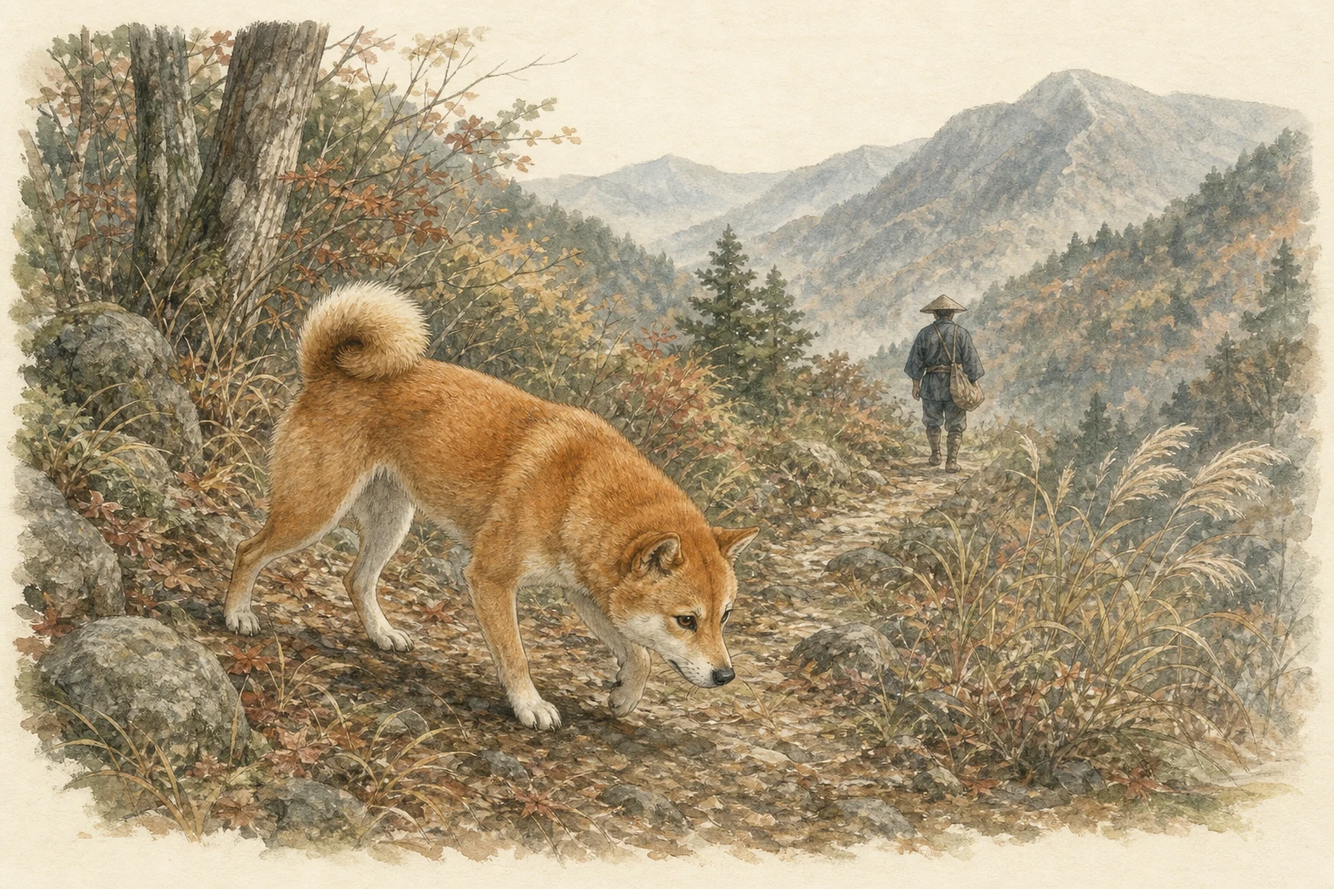
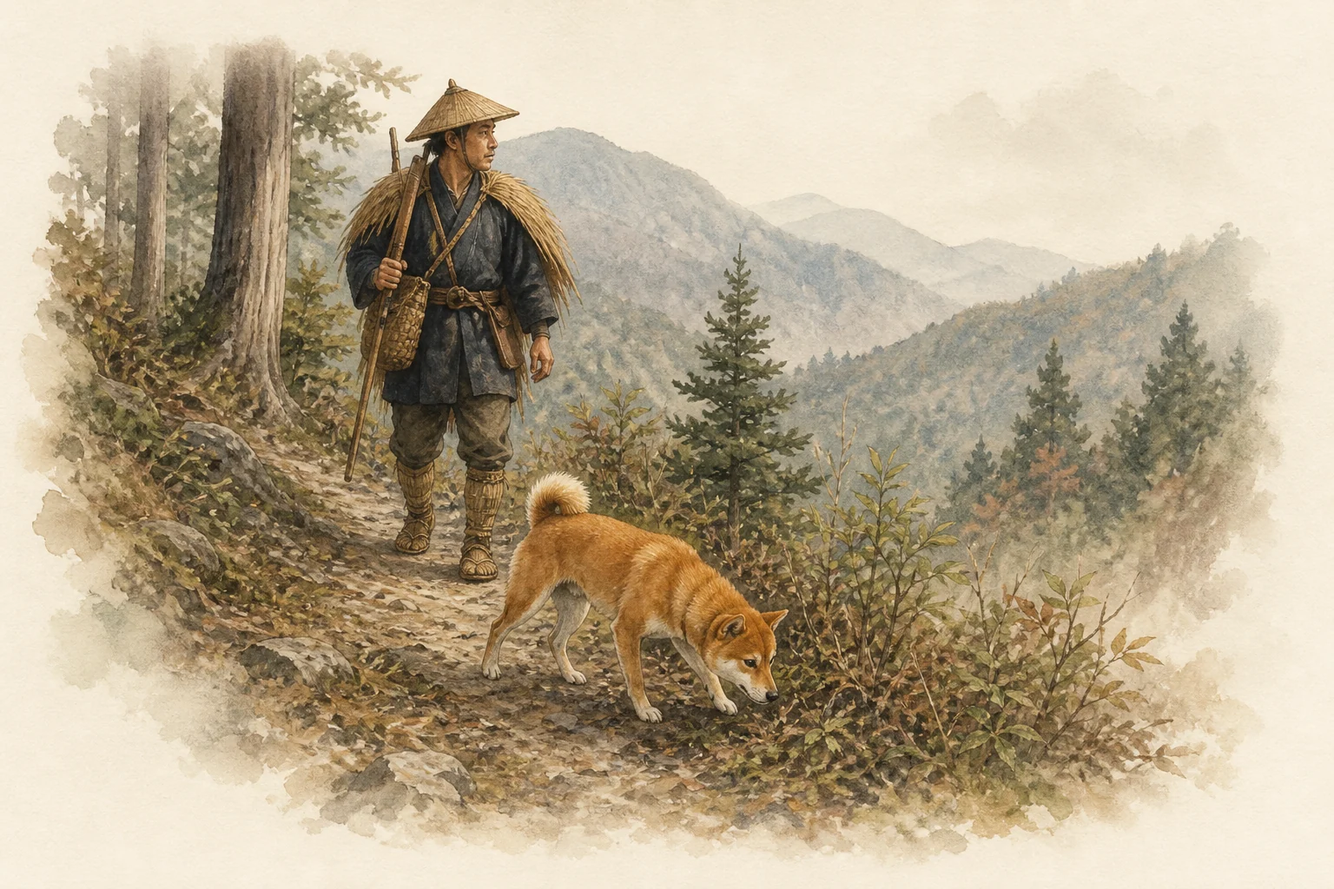
Refine Shiba visuals and recent breed details

diff --git a/src/content/breeds/detail-batch-c.ts b/src/content/breeds/detail-batch-c.ts
@@ -46,22 +46,22 @@ export const detailBatchC = [
     sources: [{ title: "FCI Standard No. 86: Yorkshire Terrier", organization: "Fédération Cynologique Internationale", url: "https://www.fci.be/Nomenclature/Standards/086g03-en.pdf", checkedAt: completedAt }, { title: "Yorkshire Terrier", organization: "The Royal Kennel Club", url: "https://www.royalkennelclub.com/search/breeds-a-to-z/breeds/toy/yorkshire-terrier/", checkedAt: completedAt }],
   },
   {
-    slug: "shiba", contentStatus: "mvp-editorial-draft", nameKo: "시바견", nameEn: "Shiba", tagline: "작은 스피츠 외모 너머에는 산지에서 냄새와 움직임을 스스로 판단하던 사냥견의 배경이 있어요.",
+    slug: "shiba", contentStatus: "mvp-editorial-draft", nameKo: "시바견", nameEn: "Shiba", tagline: "날렵한 스피츠 외모 너머에는 산지에서 냄새와 움직임을 스스로 판단하던 사냥견의 배경이 있어요.",
     palette: { primary: "#d79b67", secondary: "#dbe1c9", ink: "#4a3428" }, illustration: "/illustrations/v2/shiba-card-front.webp", catalog: { group: "spitz-primitive", discoveryTags: ["일본 산지 사냥견", "독립적 탐색", "이중모"] }, historyVisual: { src: "/illustrations/v3/shiba-history.webp", alt: "일본 산지에서 사냥 동반자로 움직이는 시바를 그린 편집 수채화" },
-    identity: { origin: "일본", lineage: "일본 토착 소형견 계통", originalRole: "사냥견", size: "소형 · 약 35~41cm, 7~11kg", lifespan: "10년 이상(RKC 참고, 개체별 차이 있음)" },
+    identity: { origin: "일본", lineage: "일본 토착 스피츠 계통", originalRole: "사냥견", size: "소형·중형 경계 · 약 35~41cm, 7~11kg", lifespan: "10년 이상(RKC 참고, 개체별 차이 있음)" },
     behaviorClues: { originalRole: "험한 산지에서 냄새와 움직임을 읽고 스스로 판단하며 사냥에 협력했습니다.", today: "낯선 접촉을 신중히 선택하거나 움직이는 대상을 좇을 수 있지만 사회화와 개체 경험에 따라 크게 달라요.", guardianContext: "강제로 만지기보다 선택권을 주고, 긴 줄과 안전한 울타리 안에서 탐색 욕구를 충족해 주세요." },
-    story: { opening: "시바는 일본 산지에서 작은 동물과 새를 사냥하는 데 쓰인 토착 소형견입니다.", roleToHome: "가정에서도 환경을 세밀하게 관찰하고 자기 거리를 지키려는 모습이 나타날 수 있어요.", reality: "깔끔하고 조용하다는 이미지가 쉬운 양육을 보장하지 않습니다. 탈출 관리와 동의 기반 핸들링이 중요해요." },
+    story: { opening: "시바는 일본의 산지에서 작은 동물과 새를 사냥하던 토착견으로, 지역에 따라 미노·산인·신슈 등 서로 조금 다른 유형이 있었습니다. 서양 견종과의 교배가 늘며 고유한 유형이 크게 줄자 20세기 초 보존 활동이 시작됐고, 여러 지역의 개들을 바탕으로 오늘날의 모습이 정리됐습니다.", roleToHome: "작고 균형 잡힌 몸과 가볍고 빠른 움직임, 뾰족한 귀와 말린 꼬리는 시바를 알아보는 대표적인 특징입니다. 지금은 여러 지역에서 반려견으로 지내며, 주변을 세밀하게 살피거나 자기 거리를 선택하는 모습은 개체와 경험에 따라 다르게 나타날 수 있어요.", reality: "깔끔하고 조용하다는 이미지가 쉬운 양육을 보장하지 않습니다. 탈출 관리와 동의 기반 핸들링이 중요해요." },
     tendencies: { activity: { label: "중간", note: "규칙적인 산책과 자유로운 냄새 탐색이 필요해요." }, mentalStimulation: { label: "중간", note: "선택하며 해결하는 탐색 과제를 제공할 수 있어요." }, independence: { label: "높은 편", note: "자기 판단과 거리 조절을 선호할 수 있어요." }, socialConnection: { label: "중간", note: "가족과 유대하더라도 접촉 방식은 선택적일 수 있어요." }, alerting: { label: "중간", note: "낯선 변화에 빠르게 주의를 기울일 수 있어요." }, grooming: { label: "중간", note: "이중모의 계절성 털갈이 관리가 필요해요." } },
     careNotes: ["문과 현관, 울타리의 탈출 가능성을 반복 확인하세요.", "발·귀·몸을 만지는 연습은 짧게 하고 거부 신호를 존중하세요.", "야생동물과 작은 동물을 향한 추적은 긴 줄과 거리 관리로 예방하세요."], healthEditorialNote: healthDraft,
     daySnapshot: [{ time: "아침", title: "조용한 탐색", description: "냄새를 선택해 맡을 시간을 줘요." }, { time: "낮", title: "혼자 쉬기", description: "방해받지 않는 자리를 보장해요." }, { time: "저녁", title: "핸들링 연습", description: "짧게 만지고 보상한 뒤 끝내요." }], related: [{ slug: "korea-jindo-dog", reason: "동아시아 사냥견 배경과 독립적 거리 조절을 비교해 보세요." }, { slug: "akita", reason: "일본 스피츠 계열 안에서 체격과 생활 부담의 차이가 커요." }],
-    sources: [{ title: "FCI Standard No. 257: Shiba", organization: "Fédération Cynologique Internationale", url: "https://www.fci.be/Nomenclature/Standards/257g05-en.pdf", checkedAt: revisedAt }, { title: "Japanese Shiba Inu", organization: "The Royal Kennel Club", url: "https://www.royalkennelclub.com/search/breeds-a-to-z/breeds/utility/japanese-shiba-inu/", checkedAt: revisedAt }],
+    sources: [{ title: "FCI Standard No. 257: Shiba", organization: "Fédération Cynologique Internationale", url: "https://www.fci.be/Nomenclature/Standards/257g05-en.pdf", checkedAt: revisedAt }, { title: "Japanese Shiba Inu", organization: "The Royal Kennel Club", url: "https://www.royalkennelclub.com/search/breeds-a-to-z/breeds/utility/japanese-shiba-inu/", checkedAt: revisedAt }, { title: "Shiba Inu", organization: "American Kennel Club", url: "https://www.akc.org/dog-breeds/shiba-inu/", checkedAt: revisedAt }],
   },
   {
     slug: "akita", contentStatus: "mvp-editorial-draft", nameKo: "아키타", nameEn: "Akita", tagline: "위엄 있는 외모보다 먼저, 큰 체격으로 판단하고 움직이는 일본 산지견의 거리감과 책임을 봐야 해요.",
     palette: { primary: "#c99568", secondary: "#d8dfce", ink: "#44362d" }, illustration: "/illustrations/v2/akita-card-front.webp", catalog: { group: "spitz-primitive", discoveryTags: ["일본 대형 스피츠", "신중한 관계", "큰 체격"] }, historyVisual: { src: "/illustrations/v3/akita-history.webp", alt: "일본 북부 산지의 사냥·경비 동반자 아키타를 그린 편집 수채화" },
     identity: { origin: "일본·아키타", lineage: "아키타 마타기견 계통", originalRole: "사냥견·경비견", size: "대형 · 약 58~70cm, 체중은 성별·체형별 차이 큼", lifespan: "10년 이상(RKC 참고, 개체별 차이 있음)" },
     behaviorClues: { originalRole: "큰 동물을 상대하는 산지 사냥과 경비에서 침착한 판단, 힘과 지속성이 요구됐습니다.", today: "낯선 개나 사람에게 신중하고 자기 공간을 지키려 할 수 있지만 개체의 사회화 경험이 반응을 크게 좌우합니다.", guardianContext: "어릴 때부터 충분한 거리에서 차분히 관찰하게 하고, 힘으로 제압하기보다 예측 가능한 규칙과 보상으로 협력하세요." },
-    story: { opening: "아키타는 일본 아키타 지역의 산지견을 바탕으로 형성된 대형 스피츠형 견종입니다.", roleToHome: "가정에서는 조용해 보여도 주변을 판단하고 관계를 선택하는 시간이 필요할 수 있어요.", reality: "대형 체격과 개체 간 관계 관리는 큰 생활 부담이 될 수 있어 생활 동선과 교육 지원을 먼저 준비해야 합니다." },
+    story: { opening: "아키타는 일본 아키타 지역에서 곰 사냥에 쓰이던 중형 마타기견을 바탕으로 발전했습니다. 17세기 이후 투견으로도 활용되고 다른 대형견 계통과 교배되면서 체격이 커졌으며, 20세기에는 일본 고유의 대형견 모습을 되찾고 보존하려는 노력이 이어졌습니다.", roleToHome: "전쟁을 거치며 개체 수가 크게 줄고 여러 유형이 섞였지만, 남아 있던 마타기형 개들을 중심으로 지금의 대형 스피츠형 모습이 정리됐습니다. 오늘날에는 반려견으로 지내며, 큰 체격과 신중한 관계 선택을 고려한 생활 동선과 사회화가 필요할 수 있어요.", reality: "대형 체격과 개체 간 관계 관리는 큰 생활 부담이 될 수 있어 생활 동선과 교육 지원을 먼저 준비해야 합니다." },
     tendencies: { activity: { label: "중간", note: "무리한 고강도보다 꾸준한 산책과 탐색이 필요해요." }, mentalStimulation: { label: "중간", note: "강요보다 선택 가능한 과제를 제공할 수 있어요." }, independence: { label: "높은 편", note: "자기 판단과 개인 공간을 중시할 수 있어요." }, socialConnection: { label: "중간", note: "가족과 깊게 유대해도 표현은 절제될 수 있어요." }, alerting: { label: "중간", note: "조용히 관찰하다 필요할 때 반응할 수 있어요." }, grooming: { label: "중간", note: "두꺼운 이중모와 큰 체격만큼 털갈이 부담이 커요." } },
     careNotes: ["낯선 개와의 인사는 의무가 아니며 충분한 거리와 퇴로를 확보하세요.", "성장기에는 미끄러운 바닥과 무리한 반복 운동을 줄이세요.", "여름에는 기온과 습도를 확인하고 가장 더운 시간의 활동을 피하세요."], healthEditorialNote: healthDraft,
     daySnapshot: [{ time: "아침", title: "긴 호흡의 산책", description: "서두르지 않고 주변을 관찰해요." }, { time: "낮", title: "독립 휴식", description: "방해받지 않는 넓은 자리를 줘요." }, { time: "저녁", title: "차분한 협력", description: "기다리기와 자리 이동을 연습해요." }], related: [{ slug: "shiba", reason: "일본 토착 스피츠 안에서 체격과 관계 관리 부담을 비교해 보세요." }, { slug: "samoyed", reason: "큰 이중모 스피츠이지만 사람과 협력해 온 방식이 달라요." }],
@@ -72,7 +72,7 @@ export const detailBatchC = [
     palette: { primary: "#ded8c8", secondary: "#dce7dc", ink: "#3d3b36" }, illustration: "/illustrations/v2/bichon-frise-card-front.webp", catalog: { group: "companion", discoveryTags: ["사람 중심 반려견", "곱슬 흰 피모", "정기 미용"] }, historyVisual: { src: "/illustrations/v3/bichon-frise-history.webp", alt: "지중해와 유럽 가정의 반려견으로 이어진 비숑 프리제를 그린 편집 수채화" },
     identity: { origin: "프랑스·벨기에 정립", lineage: "비숑 계통", originalRole: "반려견", size: "소형 · 약 25~29cm, 대체로 5kg 안팎", lifespan: "12년 이상(RKC 참고, 개체별 차이 있음)" },
     behaviorClues: { originalRole: "사람 가까이 머물며 여러 생활 공간에 적응하는 사교성과 교감이 중요했습니다.", today: "사람의 관심을 적극적으로 구하거나 혼자 남는 일을 어려워할 수 있지만 생활 경험에 따라 차이가 큽니다.", guardianContext: "짧은 혼자 있기 연습을 평소에 만들고, 흥분한 교감 뒤 스스로 쉬는 루틴도 함께 가르쳐 주세요." },
-    story: { opening: "비숑 프리제는 지중해권의 소형 비숑 타입에서 이어져 프랑스와 벨기에에서 현대 품종으로 정립됐습니다.", roleToHome: "사람과 가까이 지내 온 배경은 밝은 교감으로 이어질 수 있지만 지속적인 관심 요구가 될 수도 있어요.", reality: "털이 적게 빠진다는 인식과 달리 엉킴 방지 빗질, 목욕·건조, 정기 미용에는 많은 시간이 필요합니다." },
+    story: { opening: "비숑 프리제는 르네상스 시대 이탈리아에서 프랑스로 전해진 작은 개로 알려져 있습니다. 아주 작은 바베를 닮아 ‘바르비숑’이라 불리던 이름이 비숑으로 줄었고, 17~18세기에는 왕과 귀족 곁에 있는 모습이 여러 회화에 남았습니다.", roleToHome: "19세기에는 테네리페라는 이름으로 다시 인기를 얻었고, 이후 프랑스와 벨기에의 여러 가정으로 널리 퍼졌습니다. 두 차례 세계대전 뒤 거의 사라질 위기를 겪었지만 남은 개들을 바탕으로 개체군이 다시 형성되며 오늘날의 품종으로 자리 잡았습니다.", reality: "털이 적게 빠진다는 인식과 달리 엉킴 방지 빗질, 목욕·건조, 정기 미용에는 많은 시간이 필요합니다." },
     tendencies: { activity: { label: "중간", note: "산책과 실내 놀이를 균형 있게 즐길 수 있어요." }, mentalStimulation: { label: "중간", note: "사람과 함께하는 짧은 학습 놀이를 활용할 수 있어요." }, independence: { label: "낮은 편", note: "혼자 머무는 시간을 단계적으로 배워야 할 수 있어요." }, socialConnection: { label: "높은 편", note: "사람과의 상호작용을 적극적으로 찾을 수 있어요." }, alerting: { label: "중간", note: "방문과 소리에 반응할 수 있어 차분한 루틴이 필요해요." }, grooming: { label: "높은 편", note: "곱슬 피모는 잦은 빗질과 전문 미용이 필요해요." } },
     careNotes: ["속털까지 완전히 말려 피부가 오래 축축하지 않도록 관리하세요.", "눈 주변 착색은 미용 문제로만 보지 말고 지속되면 수의사와 원인을 확인하세요.", "보호자를 계속 따라다니지 않아도 편안한 짧은 휴식을 연습하세요."], healthEditorialNote: healthDraft,
     daySnapshot: [{ time: "아침", title: "교감 산책", description: "가볍게 걷고 사람과 신호를 맞춰요." }, { time: "낮", title: "혼자 쉬기", description: "짧고 성공적인 독립 시간을 만들어요." }, { time: "저녁", title: "꼼꼼한 빗질", description: "겨드랑이와 귀 뒤 엉킴을 확인해요." }], related: [{ slug: "maltese", reason: "흰 소형 반려견이지만 털의 구조와 미용 방식이 달라요." }, { slug: "poodle", reason: "곱슬 피모와 학습 욕구, 크기 선택의 차이를 비교해 보세요." }],
@@ -81,20 +81,20 @@ export const detailBatchC = [
   {
     slug: "cavalier-king-charles-spaniel", contentStatus: "mvp-editorial-draft", nameKo: "캐벌리어 킹 찰스 스패니얼", nameEn: "Cavalier King Charles Spaniel", tagline: "다정한 눈빛 뒤에는 사람의 무릎 가까이에서 생활해 온 토이 스패니얼의 높은 교감 욕구가 있어요.",
     palette: { primary: "#c98f67", secondary: "#e4dfcc", ink: "#46352e" }, illustration: "/illustrations/v2/cavalier-king-charles-spaniel-card-front.webp", catalog: { group: "companion", discoveryTags: ["영국 토이 스패니얼", "높은 교감", "실키 코트"] }, historyVisual: { src: "/illustrations/v3/cavalier-king-charles-spaniel-history.webp", alt: "영국 가정에서 가까운 반려견으로 지낸 캐벌리어를 그린 편집 수채화" },
-    identity: { origin: "영국", lineage: "영국 토이 스패니얼 계통", originalRole: "반려견", size: "소형 · 약 5.4~8kg", lifespan: "12년 이상(RKC 참고, 개체별 차이 있음)" },
+    identity: { origin: "영국", lineage: "영국 토이 스패니얼 계통", originalRole: "반려견", size: "소형 · 약 30~33cm, 5.4~8kg", lifespan: "12년 이상(RKC 참고, 개체별 차이 있음)" },
     behaviorClues: { originalRole: "사람 곁에 머물며 생활을 함께하는 온화한 반려 성향이 오랫동안 선택되었습니다.", today: "낯선 사람에게도 부드럽게 다가가거나 혼자 남는 일을 어려워할 수 있지만 개체별 차이가 있습니다.", guardianContext: "교감만큼 혼자 편히 쉬는 연습을 만들고, 냄새 탐색과 가벼운 운동으로 스패니얼다운 활동도 충족해 주세요." },
-    story: { opening: "캐벌리어는 영국의 옛 토이 스패니얼 모습을 되살리는 방향으로 20세기에 품종이 정립됐습니다.", roleToHome: "사람과 가까운 반려 배경 덕분에 가족의 일상에 자연스럽게 참여할 수 있어요.", reality: "다정한 성격만 보고 선택하기보다 심장과 신경계 등 건강 검진 이력이 투명한 번식처인지 확인하는 일이 중요합니다." },
+    story: { opening: "작은 토이 스패니얼은 수백 년 전부터 영국 왕실과 귀족의 반려견으로 사랑받았고, 긴 주둥이와 비교적 평평한 머리를 지닌 모습이 당시 회화에 자주 등장했습니다. 19세기에는 짧은 얼굴과 둥근 머리가 선호되면서 옛 유형이 점차 드물어졌습니다.", roleToHome: "20세기 초 옛 그림 속 스패니얼을 되살리려는 움직임이 시작됐고, 더 긴 주둥이와 평평한 머리, 균형 잡힌 몸을 지닌 개들이 다시 선택됐습니다. 이렇게 정립된 유형은 20세기 중반 별개의 품종으로 자리 잡았으며, 오늘날에는 반려견이면서도 가볍게 움직이고 탐색하는 스패니얼의 면모를 함께 보여줄 수 있어요.", reality: "다정한 성격만 보고 선택하기보다 심장과 신경계 등 건강 검진 이력이 투명한 번식처인지 확인하는 일이 중요합니다." },
     tendencies: { activity: { label: "중간", note: "가벼운 산책과 냄새 탐색을 꾸준히 즐길 수 있어요." }, mentalStimulation: { label: "중간", note: "사람과 함께하는 부드러운 학습을 활용할 수 있어요." }, independence: { label: "낮은 편", note: "혼자 있는 시간을 천천히 배워야 할 수 있어요." }, socialConnection: { label: "높은 편", note: "사람과 가까운 접촉을 선호하는 경우가 많아요." }, alerting: { label: "낮은 편", note: "경계보다 친근한 접근이 두드러질 수 있어요." }, grooming: { label: "중간", note: "귀와 가슴, 다리의 장식털을 정기적으로 빗어야 해요." } },
     careNotes: ["정기 검진에서 심장 청진과 운동 중 호흡·피로 변화를 확인하세요.", "귀가 축축해지지 않도록 산책과 목욕 뒤 상태를 살피세요.", "혼자 있기 연습은 매우 짧은 시간부터 불안 신호 없이 진행하세요."], healthEditorialNote: healthDraft,
     daySnapshot: [{ time: "아침", title: "부드러운 산책", description: "사람과 속도를 맞추며 냄새를 맡아요." }, { time: "낮", title: "독립 휴식", description: "보호자와 떨어진 자리에서 편히 쉬어요." }, { time: "저녁", title: "귀와 피모 점검", description: "장식털 엉킴과 귀 상태를 확인해요." }], related: [{ slug: "english-cocker-spaniel", reason: "스패니얼 계통의 교감과 활동 규모 차이를 비교해 보세요." }, { slug: "shih-tzu", reason: "사람 곁의 반려견 배경과 얼굴·피모 관리의 차이를 볼 수 있어요." }],
-    sources: [{ title: "FCI Standard No. 136: Cavalier King Charles Spaniel", organization: "Fédération Cynologique Internationale", url: "https://www.fci.be/Nomenclature/Standards/136g09-en.pdf", checkedAt: revisedAt }, { title: "Cavalier King Charles Spaniel", organization: "The Royal Kennel Club", url: "https://www.royalkennelclub.com/search/breeds-a-to-z/breeds/toy/cavalier-king-charles-spaniel/", checkedAt: revisedAt }],
+    sources: [{ title: "FCI Standard No. 136: Cavalier King Charles Spaniel", organization: "Fédération Cynologique Internationale", url: "https://www.fci.be/Nomenclature/Standards/136g09-en.pdf", checkedAt: revisedAt }, { title: "Cavalier King Charles Spaniel", organization: "The Royal Kennel Club", url: "https://www.royalkennelclub.com/search/breeds-a-to-z/breeds/toy/cavalier-king-charles-spaniel/", checkedAt: revisedAt }, { title: "Cavalier King Charles Spaniel", organization: "American Kennel Club", url: "https://www.akc.org/dog-breeds/cavalier-king-charles-spaniel/", checkedAt: revisedAt }],
   },
   {
     slug: "pug", contentStatus: "mvp-editorial-draft", nameKo: "퍼그", nameEn: "Pug", tagline: "익살스러운 표정만큼 먼저 확인해야 할 것은, 짧은 얼굴과 더위에 민감한 몸을 평생 관리할 준비예요.",
     palette: { primary: "#d4b58f", secondary: "#dfe2cf", ink: "#40362f" }, illustration: "/illustrations/v2/pug-card-front.webp", catalog: { group: "companion", discoveryTags: ["중국 기원 반려견", "사람 중심", "호흡·더위 관리"] }, historyVisual: { src: "/illustrations/v3/pug-history.webp", alt: "동아시아 가정의 반려견으로 지낸 퍼그의 배경을 그린 편집 수채화" },
     identity: { origin: "중국 기원·영국 정립", lineage: "동아시아 소형 반려견 계통", originalRole: "반려견", size: "소형 · 이상 체중 약 6.3~8.1kg", lifespan: "10년 이상(RKC 참고, 개체별 차이 있음)" },
     behaviorClues: { originalRole: "사람 가까이에서 생활하는 친화성과 실내 적응이 중심이었습니다.", today: "사람을 적극적으로 따르고 관심을 구할 수 있지만, 활동성이 낮다고 단정하면 체중과 자극 관리가 부족해질 수 있어요.", guardianContext: "서늘한 시간에 짧고 규칙적으로 움직이고, 호흡 소리와 회복 시간을 관찰하며 강도를 조절하세요." },
-    story: { opening: "퍼그는 중국의 소형 반려견 계통에서 시작해 유럽으로 전해지고 영국에서 현대 품종으로 정립됐습니다.", roleToHome: "오늘도 사람 가까이에서 생활에 참여하는 성향이 매력으로 여겨져요.", reality: "코골이와 거친 호흡을 품종의 귀여운 특징으로 넘기면 안 됩니다. 더위·체중·눈·피부 주름 관리가 일상에 포함돼야 해요." },
+    story: { opening: "퍼그의 정확한 초기 기원에는 여러 이야기가 있지만, 짧은 얼굴의 작은 개가 오래전 중국에서 반려견으로 사랑받았던 계통에서 시작한 것으로 여겨집니다. 16세기 무렵 무역선을 따라 유럽으로 전해졌고, 네덜란드에서 왕실과 상류층의 반려견으로 알려졌습니다.", roleToHome: "이후 영국으로 건너가 현대적인 품종의 모습이 정리됐으며, 19세기 후반에는 기존의 황갈색뿐 아니라 검은색 개들도 소개됐습니다. 짧고 네모진 몸, 말린 꼬리와 둥근 머리는 오늘날에도 퍼그를 대표하지만, 과장된 얼굴 구조보다 편안한 호흡과 움직임을 우선해 살펴야 해요.", reality: "코골이와 거친 호흡을 품종의 귀여운 특징으로 넘기면 안 됩니다. 더위·체중·눈·피부 주름 관리가 일상에 포함돼야 해요." },
     tendencies: { activity: { label: "낮은 편", note: "무리하지 않는 규칙적인 움직임은 반드시 필요해요." }, mentalStimulation: { label: "중간", note: "먹이 찾기와 짧은 학습을 즐길 수 있어요." }, independence: { label: "낮은 편", note: "사람 가까이 머무는 것을 선호할 수 있어요." }, socialConnection: { label: "높은 편", note: "가족과 방문객에게 친근하게 접근할 수 있어요." }, alerting: { label: "낮은 편", note: "경계보다 교감이 두드러지는 경우가 많아요." }, grooming: { label: "중간", note: "짧은 털도 빠짐이 있고 얼굴 주름 관리가 필요해요." } },
     careNotes: ["거친 호흡, 운동 후 회복 지연, 수면 중 호흡 이상은 정상으로 단정하지 마세요.", "더운 날과 습한 날에는 냉방과 짧은 배변 산책을 우선하세요.", "눈과 얼굴 주름을 매일 살피고 완전히 건조하게 유지하세요."], healthEditorialNote: healthDraft,
     daySnapshot: [{ time: "아침", title: "서늘한 산책", description: "짧게 걷고 호흡 회복을 확인해요." }, { time: "낮", title: "실내 찾기", description: "과식하지 않게 사료 일부를 활용해요." }, { time: "저녁", title: "주름과 눈 점검", description: "습기와 자극 징후를 살펴요." }], related: [{ slug: "french-bulldog", reason: "짧은 얼굴 반려견의 호흡·더위 관리 부담을 비교해 보세요." }, { slug: "shih-tzu", reason: "사람 중심 소형견이지만 피모와 얼굴 구조 관리가 달라요." }],

diff --git a/src/content/breed-features/data.ts b/src/content/breed-features/data.ts
@@ -753,7 +753,7 @@ export const breedFeatureSets = breedFeatureCollectionSchema.parse([
   },
   {
     slug: "akita",
-    intro: "관계를 서두르지 않는 거리, 큰 힘을 차분히 다루는 보행, 넓은 체표의 이중모 관리를 먼저 살펴보세요.",
+    intro: "관계를 서두르지 않는 거리, 큰 힘을 차분히 다루는 보행, 들어 올릴 수 없는 성견의 이동 동선을 먼저 살펴보세요.",
     cards: [
       {
         eyebrow: "관계와 거리",
@@ -772,11 +772,11 @@ export const breedFeatureSets = breedFeatureCollectionSchema.parse([
         sourceUrls: ["https://www.fci.be/Nomenclature/Standards/255g05-en.pdf"],
       },
       {
-        eyebrow: "큰 이중모",
-        title: "넓은 몸의 속털까지 구역을 나누어 관리해요.",
-        description: "거친 겉털과 촘촘한 속털을 가진 큰 이중모예요. 한 번에 오래 붙잡아두기보다 어깨·몸통·뒷다리처럼 구역을 나누어 빗고, 털갈이에는 짧은 관리를 자주 반복해주세요.",
-        image: "/illustrations/v4/akita-feature-double-coat.webp",
-        alt: "큰 미끄럼 방지 매트에서 보호자가 적색 성견 아키타의 빠진 속털을 구역별로 빗는 삽화",
+        eyebrow: "대형견 이동 동선",
+        title: "들어 올릴 수 없을 때의 이동 방법을 미리 연습해요.",
+        description: "성견의 큰 체격은 차량 탑승이나 병원 이동에서도 별도의 준비를 요구해요. 넓고 미끄럽지 않은 발판이나 낮은 경사로를 마련하고, 아프기 전부터 천천히 오르고 머무는 과정을 짧게 연습해주세요.",
+        image: "/illustrations/v4/akita-feature-large-dog-route.webp",
+        alt: "보호자가 적색 성견 아키타와 함께 넓은 미끄럼 방지 경사로를 이용해 차량 탑승을 연습하는 삽화",
         sourceUrls: ["https://www.fci.be/Nomenclature/Standards/255g05-en.pdf", "https://www.royalkennelclub.com/search/breeds-a-to-z/breeds/utility/japanese-akita-inu/"],
       },
     ],
@@ -813,7 +813,7 @@ export const breedFeatureSets = breedFeatureCollectionSchema.parse([
   },
   {
     slug: "cavalier-king-charles-spaniel",
-    intro: "사람 가까이에서도 혼자 쉬는 연습, 스패니얼다운 냄새 탐색, 긴 귀와 장식털 관리를 먼저 살펴보세요.",
+    intro: "사람 가까이에서도 혼자 쉬는 연습, 스패니얼다운 냄새 탐색, 흥분을 낮춘 차분한 인사를 먼저 살펴보세요.",
     cards: [
       {
         eyebrow: "교감과 혼자 쉬기",
@@ -832,11 +832,11 @@ export const breedFeatureSets = breedFeatureCollectionSchema.parse([
         sourceUrls: ["https://www.fci.be/Nomenclature/Standards/136g09-en.pdf"],
       },
       {
-        eyebrow: "귀와 장식털",
-        title: "귀 뒤와 가슴·다리의 긴 털을 따로 살펴요.",
-        description: "길고 실키한 귀와 가슴·다리의 장식털은 산책 뒤 이물질이 붙거나 엉킬 수 있어요. 물기와 피부 상태를 확인하고, 잡아당기지 않도록 작은 구역으로 나누어 빗어주세요.",
-        image: "/illustrations/v4/cavalier-king-charles-spaniel-feature-feathered-coat-care.webp",
-        alt: "미끄럼 방지 매트에서 보호자가 블렌하임 성견 캐벌리어의 귀 뒤와 가슴 장식털을 빗는 삽화",
+        eyebrow: "차분한 인사",
+        title: "다가갈지 보호자 곁에 머물지 선택하게 해요.",
+        description: "사람에게 친근하게 다가가는 개체도 흥분한 인사를 반복하면 몸을 가라앉히기 어려울 수 있어요. 방문객과 거리를 둔 자리에서 먼저 기다리고, 네 발이 바닥에 있을 때 짧게 인사하거나 지나칠 선택을 주세요.",
+        image: "/illustrations/v4/cavalier-king-charles-spaniel-feature-calm-greeting.webp",
+        alt: "현관 매트에서 보호자 곁에 머물며 몇 걸음 떨어진 방문객을 차분히 바라보는 블렌하임 성견 캐벌리어 삽화",
         sourceUrls: ["https://www.fci.be/Nomenclature/Standards/136g09-en.pdf", "https://www.royalkennelclub.com/search/breeds-a-to-z/breeds/toy/cavalier-king-charles-spaniel/"],
       },
     ],

diff --git a/src/lib/breed-fact-presentation.test.ts b/src/lib/breed-fact-presentation.test.ts
@@ -134,8 +134,8 @@ describe("breed fact presentation", () => {
       "yorkshire-terrier": { size: "3.2kg 이하", height: undefined, weight: "3.2kg 이하" },
       shiba: { size: "35~41cm · 7~11kg", height: "35~41cm", weight: "7~11kg" },
       akita: { size: "58~70cm", height: "58~70cm", weight: undefined },
-      "bichon-frise": { size: "25~29cm", height: "25~29cm", weight: undefined },
-      "cavalier-king-charles-spaniel": { size: "5.4~8kg", height: undefined, weight: "5.4~8kg" },
+      "bichon-frise": { size: "25~29cm · 약 5kg", height: "25~29cm", weight: "약 5kg" },
+      "cavalier-king-charles-spaniel": { size: "30~33cm · 5.4~8kg", height: "30~33cm", weight: "5.4~8kg" },
       pug: { size: "6.3~8.1kg", height: undefined, weight: "6.3~8.1kg" },
     } as const;
 

diff --git a/src/lib/breed-filters.test.ts b/src/lib/breed-filters.test.ts
@@ -33,6 +33,7 @@ describe("breed filter normalization", () => {
     const categories = breeds.map((breed) => getBreedSizeCategory(breed.identity.size));
     expect(categories).not.toContain(undefined);
     expect(getBreedSizeCategory(breeds.find((breed) => breed.slug === "samoyed")!.identity.size)).toBe("large");
+    expect(getBreedSizeCategory(breeds.find((breed) => breed.slug === "shiba")!.identity.size)).toBe("medium");
   });
 });
 

diff --git a/src/lib/breed-fact-presentation.ts b/src/lib/breed-fact-presentation.ts
@@ -137,11 +137,13 @@ const breedFactOverrides: Record<string, BreedFactOverride> = {
     height: "58~70cm",
   },
   "bichon-frise": {
-    size: "25~29cm",
+    size: "25~29cm · 약 5kg",
     height: "25~29cm",
+    weight: "약 5kg",
   },
   "cavalier-king-charles-spaniel": {
-    size: "5.4~8kg",
+    size: "30~33cm · 5.4~8kg",
+    height: "30~33cm",
     weight: "5.4~8kg",
   },
   pug: {

diff --git a/docs/image-prompts-japanese-companion-pug-2026-08-21.md b/docs/image-prompts-japanese-companion-pug-2026-08-21.md
@@ -7,9 +7,9 @@
 ## 근거와 주제
 
 - 시바: [FCI 표준 257](https://www.fci.be/Nomenclature/Standards/257g05-en.pdf)과 [RKC 소개](https://www.royalkennelclub.com/search/breeds-a-to-z/breeds/utility/japanese-shiba-inu/)를 바탕으로 선택권 있는 관계·출입 안전·계절성 이중모를 다뤘다.
-- 아키타: [FCI 표준 255](https://www.fci.be/Nomenclature/Standards/255g05-en.pdf)과 [RKC 소개](https://www.royalkennelclub.com/search/breeds-a-to-z/breeds/utility/japanese-akita-inu/)를 바탕으로 낯선 대상과의 거리·큰 힘을 다루는 보행·넓은 이중모 관리를 다뤘다.
+- 아키타: [FCI 표준 255](https://www.fci.be/Nomenclature/Standards/255g05-en.pdf)과 [RKC 소개](https://www.royalkennelclub.com/search/breeds-a-to-z/breeds/utility/japanese-akita-inu/)를 바탕으로 낯선 대상과의 거리·큰 힘을 다루는 보행·대형견 이동 동선을 다뤘다.
 - 비숑 프리제: [FCI 표준 215](https://www.fci.be/Nomenclature/Standards/215g09-en.pdf)과 [RKC 소개](https://www.royalkennelclub.com/search/breeds-a-to-z/breeds/toy/bichon-frise/)를 바탕으로 독립 휴식·짧은 협력 과제·곱슬 피모의 빗질과 건조를 다뤘다.
-- 캐벌리어 킹 찰스 스패니얼: [FCI 표준 136](https://www.fci.be/Nomenclature/Standards/136g09-en.pdf)과 [RKC 소개](https://www.royalkennelclub.com/search/breeds-a-to-z/breeds/toy/cavalier-king-charles-spaniel/)를 바탕으로 독립 휴식·스패니얼다운 냄새 탐색·귀와 장식털 관리를 다뤘다.
+- 캐벌리어 킹 찰스 스패니얼: [FCI 표준 136](https://www.fci.be/Nomenclature/Standards/136g09-en.pdf)과 [RKC 소개](https://www.royalkennelclub.com/search/breeds-a-to-z/breeds/toy/cavalier-king-charles-spaniel/)를 바탕으로 독립 휴식·스패니얼다운 냄새 탐색·차분한 인사를 다뤘다.
 - 퍼그: [FCI 표준 253](https://www.fci.be/Nomenclature/Standards/253g09-en.pdf)과 [RKC 소개](https://www.royalkennelclub.com/search/breeds-a-to-z/breeds/toy/pug/)를 바탕으로 활동 뒤 호흡 회복·더위를 피한 짧은 산책·얼굴 주름과 눈 점검을 다뤘다.
 
 ## 프롬프트 공통 기준
@@ -21,11 +21,11 @@
 모든 파일은 `public/illustrations/v4/` 아래의 1200×900 WebP다.
 
 - `shiba-feature-choice-and-trust.webp`, `shiba-feature-entry-safety.webp`, `shiba-feature-seasonal-coat.webp`
-- `akita-feature-respectful-distance.webp`, `akita-feature-calm-walking.webp`, `akita-feature-double-coat.webp`
+- `akita-feature-respectful-distance.webp`, `akita-feature-calm-walking.webp`, `akita-feature-large-dog-route.webp`
 - `bichon-frise-feature-independent-rest.webp`, `bichon-frise-feature-cooperative-learning.webp`, `bichon-frise-feature-curly-coat-care.webp`
-- `cavalier-king-charles-spaniel-feature-independent-rest.webp`, `cavalier-king-charles-spaniel-feature-scent-walk.webp`, `cavalier-king-charles-spaniel-feature-feathered-coat-care.webp`
+- `cavalier-king-charles-spaniel-feature-independent-rest.webp`, `cavalier-king-charles-spaniel-feature-scent-walk.webp`, `cavalier-king-charles-spaniel-feature-calm-greeting.webp`
 - `pug-feature-breathing-recovery.webp`, `pug-feature-cool-walk.webp`, `pug-feature-face-eye-care.webp`
 
 ## 생성·검수 메모
 
-기존 대표·역사 이미지 10장은 연락시트에서 외형과 역할 장면을 확인해 유지했다. 새 카드 15장도 한 연락시트로 외형, 장면 구분, 중앙 크롭을 확인했다. 시바의 출입 안전 장면은 첫 결과에 개가 두 마리로 나타나, 한 마리만 안전문 안에서 장비를 확인하는 결과로 다시 생성했다.
+초기 배치 뒤 시바가 아키타와 체형·머리 형태가 지나치게 비슷하다는 검수 의견을 반영했다. 시바의 대표·역사·특징 카드 3장을 모두 내장 ImageGen 신규 생성 방식으로 다시 만들고, 사람과의 비율·좁은 여우형 머리·가벼운 골격·빠른 움직임을 명시해 아키타의 넓고 묵직한 체형과 구분했다. 같은 검수에서 마지막 카드가 피모 관리에 집중되는 반복을 줄이기 위해 아키타는 차량 경사로를 활용한 대형견 이동 동선, 캐벌리어는 방문객과의 차분한 인사 장면으로 교체했다. 최종 WebP의 비율·크기·파일 예산과 화면 크롭을 다시 확인한다.

diff --git a/docs/project-status.md b/docs/project-status.md
@@ -172,7 +172,7 @@ Dog Atlas(살아 있는 견종도감)는 강아지를 고려하는 사람이 외
 | non-FCI | 12 | 같은 테스트의 `registryStatus` |
 | 도감 포함 유형 | 국제 등록 368, 국가유산 2, 검증된 랜드레이스 1, 기록된 개체군 3, 디자이너 교배견 2 | 같은 테스트의 `inclusionType` |
 | 카드·역사 이미지 | 상세 376개 모두 로컬 경로 존재 | `data.test.ts`, `visual-assets.test.ts` |
-| 견종별 특징 카드 | 9종·27개, 각 1200×900 WebP | `breed-features/data.test.ts` |
+| 견종별 특징 카드 | 29종·87개, 각 1200×900 WebP | `breed-features/data.test.ts` |
 | 이미지 용량 예산 | 카드 각 550KB 이하, 역사 각 700KB 이하 | `visual-assets.test.ts` |
 | 외형 정밀 검수 | 27종에서 45개 카드·역사 자산 교체 완료, 페키니즈·스카이 테리어·진돗개 유지 확인, 그 외는 미승인 1차 점검 또는 집중 재확인 상태 | [`breed-visual-audit.md`](breed-visual-audit.md) |
 | 한국어 표시 카피 | 기존 368개 항목 16,157개 문자열 자동 점검; 신규 2개 항목은 배치 테스트·ESLint·화면 검수 완료 | [`korean-copy-audit.md`](korean-copy-audit.md) |
@@ -194,7 +194,7 @@ Dog Atlas(살아 있는 견종도감)는 강아지를 고려하는 사람이 외
 
 ## 8. 검증 명령과 기준
 
-- 2026-08-21 시바·아키타·비숑 프리제·캐벌리어 킹 찰스 스패니얼·퍼그를 네 번째 5종 배치로 완성했다. 견종별 생활 질문을 구분한 1200×900 WebP 카드 15개를 추가하고 크기·원래 역할·출처 확인일을 정리했다. 기존 대표·역사 이미지 10장은 유지했다. 완성된 상세의 계통 표시는 20자 이하의 계열명으로 통일하고, 미니어처 슈나우저 역사는 FCI의 형성 기록과 AKC의 농장 해수 관리 자료를 바탕으로 두 문단을 다시 작성했다. 전체 ESLint·TypeScript·146개 테스트와 400개 경로 프로덕션 빌드를 통과했으며, 생성된 여덟 상세 HTML에서 새 카드·계통·역사 문구를 확인했다.
+- 2026-08-21 시바·아키타·비숑 프리제·캐벌리어 킹 찰스 스패니얼·퍼그를 네 번째 5종 배치로 완성했다. 후속 검수에서 시바의 대표·역사·특징 이미지 5장을 좁은 머리와 가벼운 골격, 사람 대비 작은 체급이 읽히는 그림으로 전면 교체해 아키타와 구분했다. 시바의 체구는 공식 기관별 표현 차이를 반영해 `소형·중형 경계`로 정리하고 탐색에서는 경계값의 상위 분류인 중형에 포함했다. 비숑은 `약 5kg`, 캐벌리어는 `30~33cm`를 추가했으며, 주 표준에 한쪽 수치가 없는 아키타 체중과 퍼그 체고는 임의로 채우지 않았다. 다섯 견종의 역사 문단을 형성 과정 중심으로 보강하고, 반복되던 피모 카드 가운데 아키타는 대형견 이동 동선, 캐벌리어는 차분한 인사로 교체했다. 사용하지 않게 된 피모 이미지 2장은 삭제했다. 전체 ESLint·TypeScript·146개 테스트와 400개 경로 프로덕션 빌드를 통과했고, 생성된 상세 HTML에서 새 카드·크기·역사 문구를 확인했다.
 
 - 2026-08-20 프렌치 불도그·바센지·웰시 코기 펨브로크·미니어처 슈나우저·요크셔 테리어를 세 번째 5종 배치로 완성했다. 견종별 역할과 생활 조건을 구분한 1200×900 WebP 카드 15개를 추가하고 크기·원래 역할·출처 확인일을 정리했다. 기존 대표·역사 이미지 10장은 유지했다. 휘핏에는 AKC 공식 체중 범위 11~18kg을, 그레이트 피레니즈에는 AKC 표준의 성별 기준값인 암컷 약 39kg·수컷 약 45kg을 추가했다. 전체 ESLint·TypeScript·145개 테스트와 400개 경로 프로덕션 빌드를 통과했으며, 생성된 일곱 상세 HTML에서 새 카드와 몸무게 표시를 확인했다.
 

diff --git a/docs/breed-feature-card-rollout.md b/docs/breed-feature-card-rollout.md
@@ -194,7 +194,7 @@ src/content/breed-features/
 
 아홉 번째 확장 배치로 프렌치 불도그·바센지·웰시 코기 펨브로크·미니어처 슈나우저·요크셔 테리어를 추가했다. 호흡 회복과 더위·시각과 후각 탐색·몰이 집중과 낮은 동선·알림 뒤 돌아오기·작은 몸의 안전과 각 피모 관리를 구분한 카드 15개를 만들었다. 기존 대표·역사 이미지 10장은 유지했으며 제작 기록은 [`image-prompts-companion-terrier-corgi-2026-08-20.md`](image-prompts-companion-terrier-corgi-2026-08-20.md)에 정리했다.
 
-열 번째 확장 배치로 시바·아키타·비숑 프리제·캐벌리어 킹 찰스 스패니얼·퍼그를 추가했다. 선택과 출입 안전·큰 힘과 관계 거리·독립 휴식과 협력·스패니얼 탐색·호흡과 더위, 각 견종의 피모 관리를 구분한 카드 15개를 만들었다. 기존 대표·역사 이미지 10장은 유지했으며 제작 기록은 [`image-prompts-japanese-companion-pug-2026-08-21.md`](image-prompts-japanese-companion-pug-2026-08-21.md)에 정리했다.
+열 번째 확장 배치로 시바·아키타·비숑 프리제·캐벌리어 킹 찰스 스패니얼·퍼그를 추가했다. 선택과 출입 안전·큰 힘과 관계 거리·독립 휴식과 협력·스패니얼 탐색·호흡과 더위, 피모 관리가 핵심인 견종의 관리 부담을 구분한 카드 15개를 만들었다. 후속 검수에서 시바의 대표·역사·특징 이미지 5장을 아키타보다 가볍고 작은 체형으로 교체하고, 반복되던 피모 카드 중 아키타는 대형견 이동 동선, 캐벌리어는 차분한 인사로 바꿨다. 제작 기록은 [`image-prompts-japanese-companion-pug-2026-08-21.md`](image-prompts-japanese-companion-pug-2026-08-21.md)에 정리했다.
 
 ## 10. 완료 조건
 
